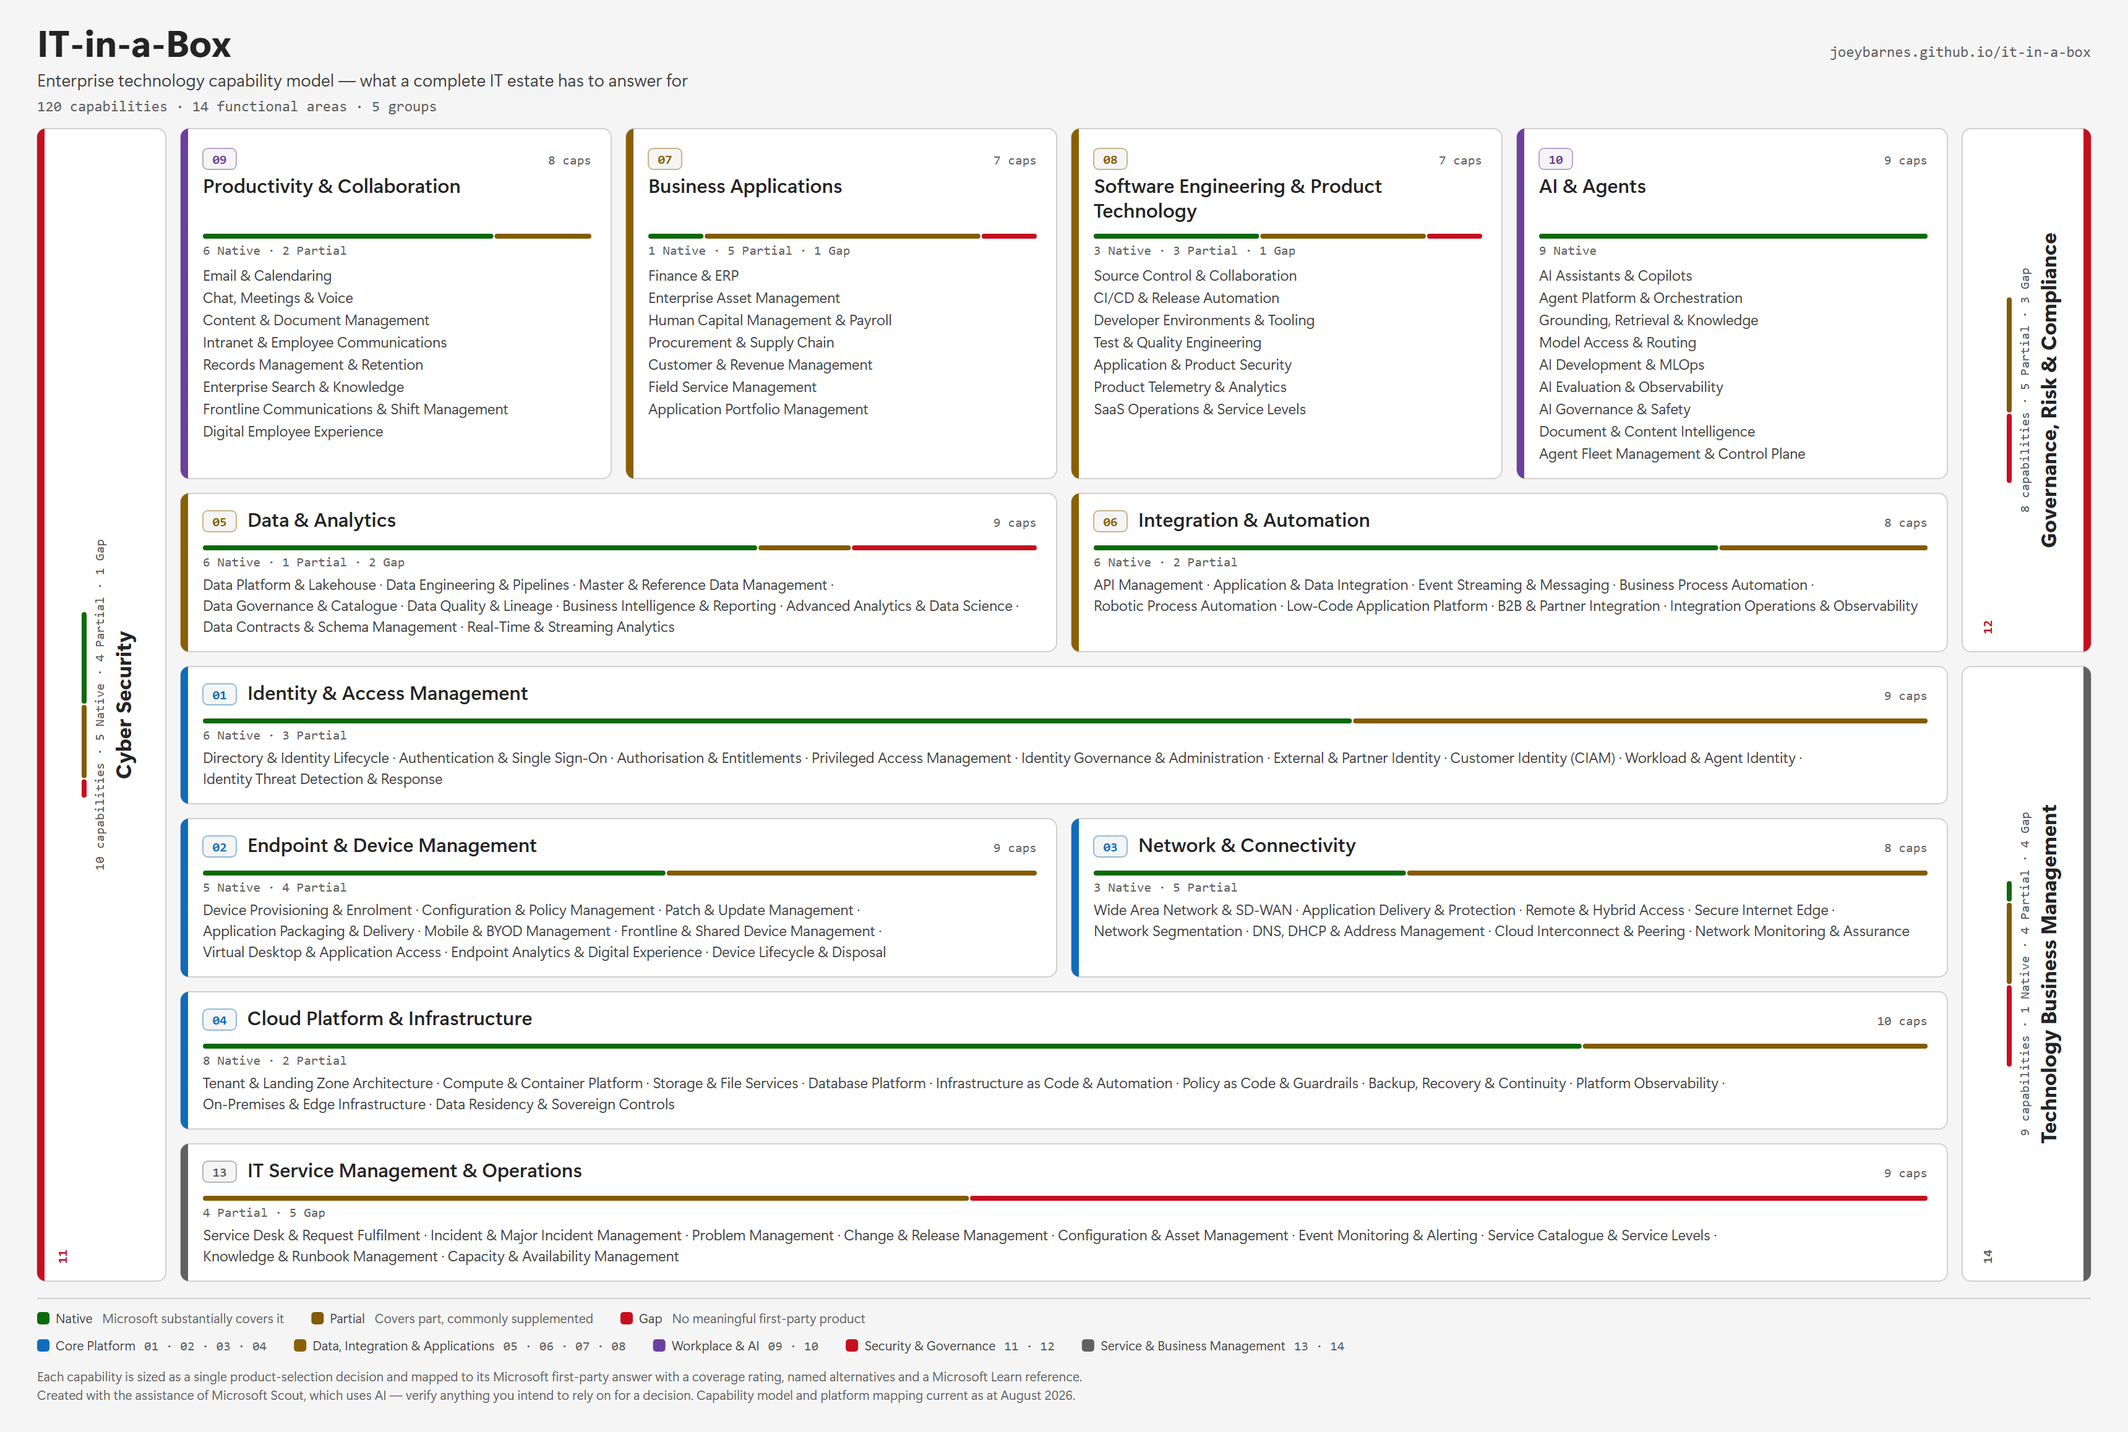
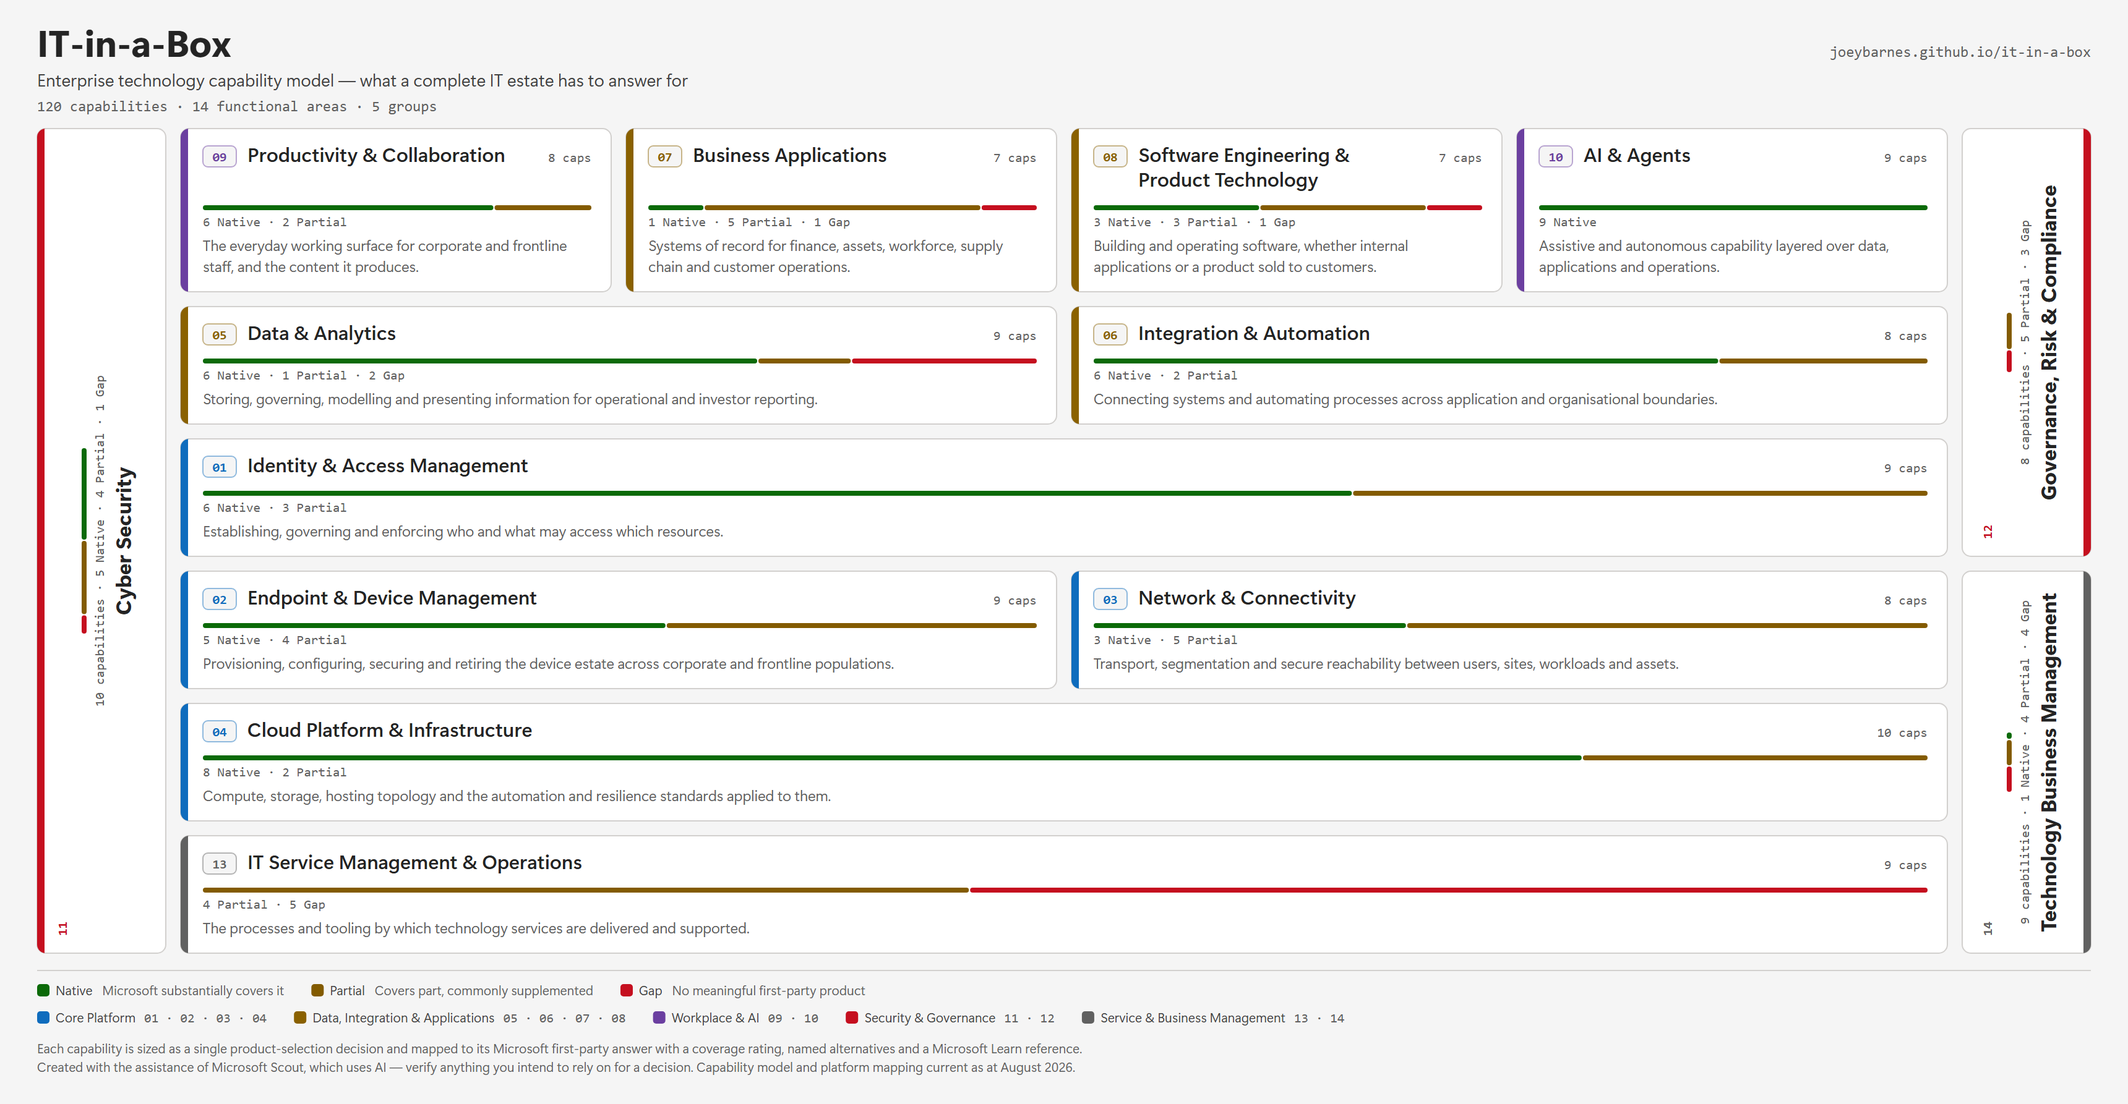
Cut the overview back to an orientation view
Each card listed every capability in its area, so the landing view restated
most of the model in a form you could not filter or read a mapping from. It
also made the two views disagree: the cards listed capabilities, the three
rails could not, so the page had to carry a caveat explaining the asymmetry.

A card now shows what the area is, how big it is, and how well Microsoft covers
it: name, capability count, coverage bar, the mix in words, and the area's own
one-line definition from the model. The capability names stay in the model tab,
one click away, where they can be searched and filtered.

Consequences: the stack drops from 1070px to 803px and the exported graphic
from 1158px to 893px, tab stops on the landing view fall from ~107 to 14, and
the lead copy no longer needs its caveat because no card lists capabilities now.

Shorter cards make the rails relatively taller, so both generators gain a fit
check. The HTML warns when rotated rail text exceeds its cell, and the SVG picks
the right rail's split point by what each label actually measures instead of a
fixed row boundary — with the old fixed split, area 12's label overflowed its
card as soon as the cards got shorter.

diff --git a/docs/index.html b/docs/index.html
@@ -165,7 +165,7 @@ html[data-theme="dark"] .lic.verify{color:#f0c674;background:rgba(230,173,60,.14
 .ov-key b{color:var(--tx-2);font-weight:600}
 .ov-dl{display:flex;gap:7px;flex:0 0 auto;align-items:center}
 .ov-dl .dlnote{font-family:var(--mono);font-size:10.5px;color:var(--tx-3)}
-.ovmix{margin-top:6px;font-family:var(--mono);font-size:10.5px;line-height:1.45;color:var(--tx-3)}
+.ovmix{display:block;margin-top:7px;font-family:var(--mono);font-size:10.5px;line-height:1.45;color:var(--tx-3)}
 .stack{display:grid;grid-template-columns:auto minmax(0,1fr) auto;gap:9px;align-items:stretch}
 .ov-mid{display:flex;flex-direction:column;gap:9px;min-width:0}
 .ov-rail{display:flex;flex-direction:column;gap:9px}
@@ -178,30 +178,24 @@ html[data-theme="dark"] .lic.verify{color:#f0c674;background:rgba(230,173,60,.14
 
 .ovc{position:relative;display:flex;flex-direction:column;min-width:0;background:var(--panel);
   border:1px solid var(--line-solid);border-left:4px solid var(--ac);border-radius:var(--radius);
-  padding:11px 13px 12px 12px;text-align:left}
+  padding:12px 14px 13px 13px;text-align:left}
 .ovc.r{border-left:1px solid var(--line-solid);border-right:4px solid var(--ac)}
-button.ovc{font:inherit;color:inherit;cursor:pointer;appearance:none}
-button.ovc:focus-visible,.ovc-hd:focus-visible,.ovcap:focus-visible{outline:2px solid var(--accent);outline-offset:2px;border-radius:4px}
+button.ovc{font:inherit;color:inherit;cursor:pointer;appearance:none;width:100%}
+button.ovc:focus-visible{outline:2px solid var(--accent);outline-offset:2px}
+button.ovc:hover{border-color:var(--ac)}
+button.ovc:hover .ovc-nm{color:var(--ac)}
 
-.ovc-hd{appearance:none;background:none;border:0;padding:0;margin:0;cursor:pointer;width:100%;
-  display:flex;align-items:baseline;gap:8px;font:inherit;color:inherit;text-align:left}
-.ovc-hd:hover .ovc-nm{color:var(--ac);text-decoration:underline;text-underline-offset:2px}
+.ovc-hd{display:flex;align-items:baseline;gap:8px;width:100%}
 .ovc-code{flex:0 0 auto;font-family:var(--mono);font-size:10.5px;font-weight:700;color:var(--ac);
   background:var(--panel-2);border:1px solid var(--line-solid);border-radius:4px;padding:1px 5px}
 .ovc-nm{font-size:14px;font-weight:600;color:var(--tx);line-height:1.25}
 .ovc-ct{margin-left:auto;font-family:var(--mono);font-size:10.5px;color:var(--tx-3);white-space:nowrap}
 
-.ovbar{display:flex;height:4px;gap:1px;border-radius:3px;overflow:hidden;margin:8px 0 0;
+.ovbar{display:flex;height:4px;gap:1px;border-radius:3px;overflow:hidden;margin:9px 0 0;
   background:var(--panel-2)}
 .ovbar i{display:block;min-width:3px}
 
-.ovcaps{display:flex;margin-top:8px;min-width:0}
-.ovcaps.col{flex-direction:column;align-items:flex-start;gap:1px}
-.ovcaps.inl{flex-wrap:wrap;gap:0 5px}
-.ovcap{appearance:none;background:none;border:0;padding:1px 0;font:inherit;font-size:11.5px;
-  line-height:1.52;color:var(--tx-3);cursor:pointer;text-align:left}
-.ovcap:hover{color:var(--tx);text-decoration:underline;text-underline-offset:2px}
-.ovcaps.inl .ovcap:not(:last-child)::after{content:" \00b7";color:var(--line-solid)}
+.ovc-desc{margin-top:9px;font-size:11.8px;line-height:1.5;color:var(--tx-3)}
 
 /* Rail content sits in side-by-side perpendicular columns, so the rail's height
    is the tallest single element rather than the sum of all of them. Stacking
@@ -357,8 +351,7 @@ dialog#capdlg .mv{font-size:12.5px;color:var(--tx-2)}
   because it qualifies every layer rather than occupying one of them, and <b>governance</b> and
   <b>business management</b> do the same on the right. The four areas across the top are what the
   business actually touches; everything beneath them is what makes those work. The bar under each
-  area shows its Microsoft coverage mix. Select any area or capability to open it in the model &#8212;
-  the three spanning areas list their capabilities there.
+  area shows its Microsoft coverage mix. Select any area to open its capabilities in the model.
   <span class="ovstat" id="ovstat"></span></p>
   <div class="ov-bar">
     <div class="ov-key" id="ovkey"></div>
@@ -1104,42 +1097,29 @@ function ovBar(a){
     Object.keys(m).filter(k=>m[k]>0)
       .map(k=>'<i style="flex:'+m[k]+';background:'+COV_COLOR[k]+'"></i>').join("")+'</span>';
 }
-function ovCaps(a,inline){
-  const w=el("div","ovcaps "+(inline?"inl":"col"));
-  a.caps.forEach(c=>{
-    const m=MAP[c.id]||{};
-    const b=el("button","ovcap",esc(c.name));
-    b.type="button";
-    b.title=c.id+" "+c.name+" \u2014 "+(m.cov||"\u2014")+(m.ms&&m.ms!=="\u2014"?" \u00b7 "+m.ms:"")+
-      ". Open in the capability model.";
-    b.setAttribute("aria-label",b.title);
-    b.addEventListener("click",()=>openInModel(c.id));
-    w.appendChild(b);
-  });
-  return w;
-}
 function ovLabel(a){
   return a.id+" "+a.name+", "+a.caps.length+" capabilities \u2014 "+ovMixLabel(a)+
          ". Open in the capability model.";
 }
-function ovCell(a,inline,right){
-  const c=el("div","ovc"+(right?" r":""));
+/* One card per area: what it is, how big it is, and how well Microsoft covers
+   it. The capability names live in the model tab — repeating all 120 here turns
+   an orientation view into a second copy of the model. */
+function ovCell(a){
+  const c=el("button","ovc");
+  c.type="button";
   c.style.setProperty("--ac",a.color);
   /* deliberately not data-area — the model's filter queries that attribute and
      this view sits earlier in the DOM */
   c.dataset.ovarea=a.id;
-  const hd=el("button","ovc-hd");
-  hd.type="button";
-  hd.innerHTML='<span class="ovc-code">'+a.id+'</span><span class="ovc-nm">'+esc(a.name)+
-    '</span><span class="ovc-ct" aria-hidden="true">'+a.caps.length+' caps</span>';
-  hd.title=ovLabel(a);
-  hd.setAttribute("aria-label",ovLabel(a));
-  hd.addEventListener("click",()=>openAreaInModel(a.id));
-  c.appendChild(hd);
-  c.insertAdjacentHTML("beforeend",ovBar(a));
-  /* the mix in words as well as colour — the bar must not be the only channel */
-  c.insertAdjacentHTML("beforeend",'<div class="ovmix">'+esc(ovMixText(a))+'</div>');
-  c.appendChild(ovCaps(a,inline));
+  c.title=ovLabel(a);
+  c.setAttribute("aria-label",ovLabel(a));
+  c.innerHTML='<span class="ovc-hd" aria-hidden="true"><span class="ovc-code">'+a.id+
+    '</span><span class="ovc-nm">'+esc(a.name)+'</span><span class="ovc-ct">'+
+    a.caps.length+' caps</span></span>'+ovBar(a)+
+    /* the mix in words as well as colour — the bar must not be the only channel */
+    '<span class="ovmix" aria-hidden="true">'+esc(ovMixText(a))+'</span>'+
+    '<span class="ovc-desc" aria-hidden="true">'+esc(a.desc)+'</span>';
+  c.addEventListener("click",()=>openAreaInModel(a.id));
   return c;
 }
 function ovRail(a,right){
@@ -1175,22 +1155,22 @@ function buildOverview(){
   STACK.railR.forEach(id=>{const a=ovArea(id);if(!a)return;placed.add(id);railR.appendChild(ovRail(a,true));});
 
   const mid=el("div","ov-mid");
-  const addRow=(areas,inline)=>{
+  const addRow=areas=>{
     if(!areas.length)return;
     const r=el("div","ov-row");
     r.dataset.n=String(Math.min(areas.length,4));
-    areas.forEach(a=>r.appendChild(ovCell(a,inline,false)));
+    areas.forEach(a=>r.appendChild(ovCell(a)));
     mid.appendChild(r);
   };
-  STACK.rows.forEach((row,i)=>{
+  STACK.rows.forEach(row=>{
     const areas=row.map(ovArea).filter(Boolean);
     areas.forEach(a=>placed.add(a.id));
-    addRow(areas,i>0);
+    addRow(areas);
   });
   /* safety net: anything the layout does not place still appears, in rows the
      grid can actually style */
   const leftover=AREAS.filter(a=>!placed.has(a.id));
-  for(let i=0;i<leftover.length;i+=3)addRow(leftover.slice(i,i+3),true);
+  for(let i=0;i<leftover.length;i+=3)addRow(leftover.slice(i,i+3));
 
   stack.appendChild(mid);
   if(railR.children.length)stack.appendChild(railR);
@@ -1213,6 +1193,22 @@ function buildOverview(){
   if(dupes.length)console.warn("Overview: area listed more than once in STACK:",dupes);
   if(rendered!==AREAS.length)
     console.warn("Overview: rendered "+rendered+" cells for "+AREAS.length+" areas");
+
+  /* Rail text is rotated and does not wrap, so a shorter stack clips it rather
+     than reflowing. Report it instead of shipping a truncated rail. Skipped
+     while the panel is hidden, where every measurement is zero. */
+  requestAnimationFrame(()=>{
+    host.querySelectorAll(".ovr").forEach(b=>{
+      const lim=b.getBoundingClientRect().height;
+      if(lim<=0)return;
+      b.querySelectorAll(".ovr-col").forEach(col=>{
+        const need=col.getBoundingClientRect().height;
+        if(need>lim-8)
+          console.warn("Overview: rail "+b.dataset.ovarea+" needs "+Math.round(need)+
+                       "px in "+Math.round(lim)+"px \u2014 "+col.textContent.trim());
+      });
+    });
+  });
 }
 buildOverview();
 
@@ -1247,14 +1243,6 @@ function wrapW(text,max,f){
   if(line)out.push(line);
   return out;
 }
-function wrapList(names,max,f,sep){
-  const out=[];let line="";
-  names.forEach((n,i)=>{const piece=n+(i<names.length-1?sep:"");
-    const c=line+piece;
-    if(line&&tw(c,f)>max){out.push(line);line=piece;}else line=c;});
-  if(line)out.push(line);
-  return out;
-}
 const cssVar=n=>getComputedStyle(document.documentElement).getPropertyValue(n).trim();
 
 function overviewSVG(){
@@ -1286,49 +1274,43 @@ function overviewSVG(){
       '" stroke="'+LINE+'"/><path d="'+sp+'" fill="'+c+'"/>';
   };
 
-  const plan=(a,w,inline)=>{
-    const inner=w-PADX-16,p={a:a,w:w,inline:inline,mix:ovMixText(a)};
-    if(inline){
-      p.nameY=27;p.barY=42;p.mixY=59;p.capY=78;
-      p.capLines=wrapList(a.caps.map(c=>c.name),inner,FT.cap," \u00b7 ");
-      p.h=p.capY+(p.capLines.length-1)*17+16;
-    }else{
-      p.nameLines=wrapW(a.name,inner-52,FT.nm);
-      p.nameY=52;
-      p.barY=p.nameY+(p.nameLines.length-1)*20+13;
-      p.mixY=p.barY+17;
-      p.capY=p.mixY+21;
-      p.capLines=[];
-      a.caps.forEach(c=>wrapW(c.name,inner,FT.cap).forEach(l=>p.capLines.push(l)));
-      p.h=p.capY+(p.capLines.length-1)*18+16;
-    }
+  /* One card per area, matching the on-screen overview: name, size, coverage
+     bar, the mix in words, and the area's own one-line description. */
+  const plan=(a,w)=>{
+    const inner=w-PADX-16,p={a:a,w:w,mix:ovMixText(a)};
+    /* the chip sits on the first name line, as it does on screen */
+    p.nameLines=wrapW(a.name,inner-36-56,FT.nm);
+    p.nameY=27;
+    p.barY=p.nameY+(p.nameLines.length-1)*20+15;
+    p.mixY=p.barY+17;
+    p.descY=p.mixY+20;
+    p.descLines=wrapW(a.desc,inner,FT.cap);
+    p.h=p.descY+(p.descLines.length-1)*17+16;
     return p;
   };
   const rows=[],seen=new Set(),cw=(MW-3*G)/4;
-  STACK.rows.forEach((ids,i)=>{
+  STACK.rows.forEach(ids=>{
     const as=ids.map(ovArea).filter(Boolean);
     if(!as.length)return;
     as.forEach(a=>seen.add(a.id));
     const w=as.length===4?cw:(MW-G*(as.length-1))/as.length;
-    rows.push(as.map(a=>plan(a,w,i>0)));
+    rows.push(as.map(a=>plan(a,w)));
   });
   const left=AREAS.filter(a=>!seen.has(a.id)&&a.id!==STACK.railL&&STACK.railR.indexOf(a.id)<0);
   for(let i=0;i<left.length;i+=3){
     const gp=left.slice(i,i+3),w=(MW-G*(gp.length-1))/gp.length;
-    rows.push(gp.map(a=>plan(a,w,true)));
+    rows.push(gp.map(a=>plan(a,w)));
   }
-  /* align the bar, mix and capability list across a row even when one card's
-     name wraps to two lines, then square the row off to its tallest card */
+  /* align the bar, mix and description across a row even when one card's name
+     wraps to two lines, then square the row off to its tallest card */
   rows.forEach(r=>{
-    if(!r[0].inline){
-      const mn=Math.max.apply(null,r.map(p=>p.nameLines.length));
-      r.forEach(p=>{
-        p.barY=p.nameY+(mn-1)*20+13;
-        p.mixY=p.barY+17;
-        p.capY=p.mixY+21;
-        p.h=p.capY+(p.capLines.length-1)*18+16;
-      });
-    }
+    const mn=Math.max.apply(null,r.map(p=>p.nameLines.length));
+    r.forEach(p=>{
+      p.barY=p.nameY+(mn-1)*20+15;
+      p.mixY=p.barY+17;
+      p.descY=p.mixY+20;
+      p.h=p.descY+(p.descLines.length-1)*17+16;
+    });
     const h=Math.max.apply(null,r.map(p=>p.h));r.forEach(p=>{p.h=h;});
   });
   const SH=rows.reduce((n,r)=>n+r[0].h+G,0)-G;
@@ -1341,12 +1323,19 @@ function overviewSVG(){
   const railBlock=(x,y,h,a,right)=>{
     s.push(card(x,y,RAIL,h,a.color,right));
     const cx=x+RAIL/2,cy=y+h/2;
+    const meta=a.caps.length+" capabilities \u00b7 "+ovMixText(a);
+    /* rotated text does not wrap — report a rail that cannot hold its label
+       rather than emitting a graphic with text running outside the card */
+    const need=Math.max(tw(a.name,FT.railNm),tw(meta,FT.mix))+28;
+    if(need>h)console.warn("overviewSVG: rail "+a.id+" needs "+Math.round(need)+
+                           "px but has "+Math.round(h)+"px");
     const rot=(off,txt,f,fill)=>'<g transform="translate('+(cx+off)+','+cy+') rotate(-90)">'+
       svgT(0,0,txt,f,fill,"middle")+'</g>';
     s.push(rot(24,a.name,FT.railNm,INK));
-    s.push(rot(2,a.caps.length+" capabilities \u00b7 "+ovMixText(a),FT.mix,INK3));
+    s.push(rot(2,meta,FT.mix,INK3));
     const mix=areaMix(a),ks=Object.keys(mix).filter(k=>mix[k]>0);
-    const tot=ks.reduce((n,k)=>n+mix[k],0),BH=Math.max(60,Math.min(150,h-190));
+    const tot=ks.reduce((n,k)=>n+mix[k],0);
+    const BH=Math.max(48,Math.min(150,h-Math.max(tw(meta,FT.mix),tw(a.name,FT.railNm))-46));
     let by=cy-BH/2;
     ks.forEach(k=>{const seg=(BH-(ks.length-1))*mix[k]/tot;
       s.push('<rect x="'+(cx-16)+'" y="'+by+'" width="4" height="'+seg+'" rx="2" fill="'+COV_COLOR[k]+'"/>');
@@ -1357,8 +1346,19 @@ function overviewSVG(){
   const L=ovArea(STACK.railL);
   if(L)railBlock(M,HEAD,SH,L,false);
   const rr=STACK.railR.map(ovArea).filter(Boolean);
-  if(rr.length===2&&rows.length>1){
-    const split=rows[0][0].h+G+rows[1][0].h;
+  if(rr.length===2){
+    /* Split the right rail on whichever row boundary leaves both cells able to
+       hold their own rotated label. Falling back to a fixed boundary makes the
+       shorter cell clip as soon as the cards get smaller. */
+    const need=rr.map(a=>Math.max(tw(a.name,FT.railNm),
+      tw(a.caps.length+" capabilities \u00b7 "+ovMixText(a),FT.mix))+34);
+    const bounds=[];
+    let acc=0;
+    rows.forEach((r,i)=>{acc+=r[0].h+(i?G:0);if(i<rows.length-1)bounds.push(acc);});
+    const ideal=(SH-G)*need[0]/(need[0]+need[1]);
+    const ok=bounds.filter(b=>b>=need[0]&&(SH-b-G)>=need[1]);
+    const pick=(ok.length?ok:bounds).sort((p,q)=>Math.abs(p-ideal)-Math.abs(q-ideal))[0];
+    const split=pick===undefined?ideal:pick;
     railBlock(W-M-RAIL,HEAD,split,rr[0],true);
     railBlock(W-M-RAIL,HEAD+split+G,SH-split-G,rr[1],true);
   }else{
@@ -1372,18 +1372,12 @@ function overviewSVG(){
     r.forEach(p=>{
       const a=p.a,tx=x+PADX;
       s.push(card(x,y,p.w,p.h,a.color,false));
-      if(p.inline){
-        s.push(chip(tx,y+14,a.id,a.color));
-        s.push(svgT(tx+36,y+p.nameY,a.name,FT.nm,INK));
-        s.push(svgT(x+p.w-16,y+p.nameY,a.caps.length+" caps",FT.mix,INK3,"end"));
-      }else{
-        s.push(chip(tx,y+16,a.id,a.color));
-        s.push(svgT(x+p.w-16,y+29,a.caps.length+" caps",FT.mix,INK3,"end"));
-        p.nameLines.forEach((l,i)=>s.push(svgT(tx,y+p.nameY+i*20,l,FT.nm,INK)));
-      }
+      s.push(chip(tx,y+14,a.id,a.color));
+      s.push(svgT(x+p.w-16,y+p.nameY,a.caps.length+" caps",FT.mix,INK3,"end"));
+      p.nameLines.forEach((l,i)=>s.push(svgT(tx+36,y+p.nameY+i*20,l,FT.nm,INK)));
       s.push(bar(tx,y+p.barY,p.w-PADX-16,a));
       s.push(svgT(tx,y+p.mixY,p.mix,FT.mix,INK3));
-      p.capLines.forEach((l,i)=>s.push(svgT(tx,y+p.capY+i*(p.inline?17:18),l,FT.cap,INK2)));
+      p.descLines.forEach((l,i)=>s.push(svgT(tx,y+p.descY+i*17,l,FT.cap,INK3)));
       x+=p.w+G;
     });
     y+=r[0].h+G;

diff --git a/README.md b/README.md
@@ -16,9 +16,11 @@ https://joeybarnes.github.io/it-in-a-box/
 
 **Overview** — the whole stack on one page. Cyber security spans the full height as the left
 rail, governance and business management as the right rail, the four business-facing areas
-across the top, and the data, platform and operating layers descending beneath them. Every
-label, count and coverage bar is read from the model at build time, so the view cannot drift
-from the data behind it. Selecting any area or capability opens it in the Capability Model.
+across the top, and the data, platform and operating layers descending beneath them. Each area
+shows its name, size, Microsoft coverage mix and one-line definition — the capability names
+themselves stay in the Capability Model, so this reads as an orientation view rather than a
+second copy of the model. Every label, count and coverage bar is read from the model at build
+time, so the view cannot drift from the data behind it. Selecting an area opens it there.
 
 **Capability Model** — 120 capabilities across 14 functional areas and 5 groups. Each
 capability is sized as a single product decision and carries:
